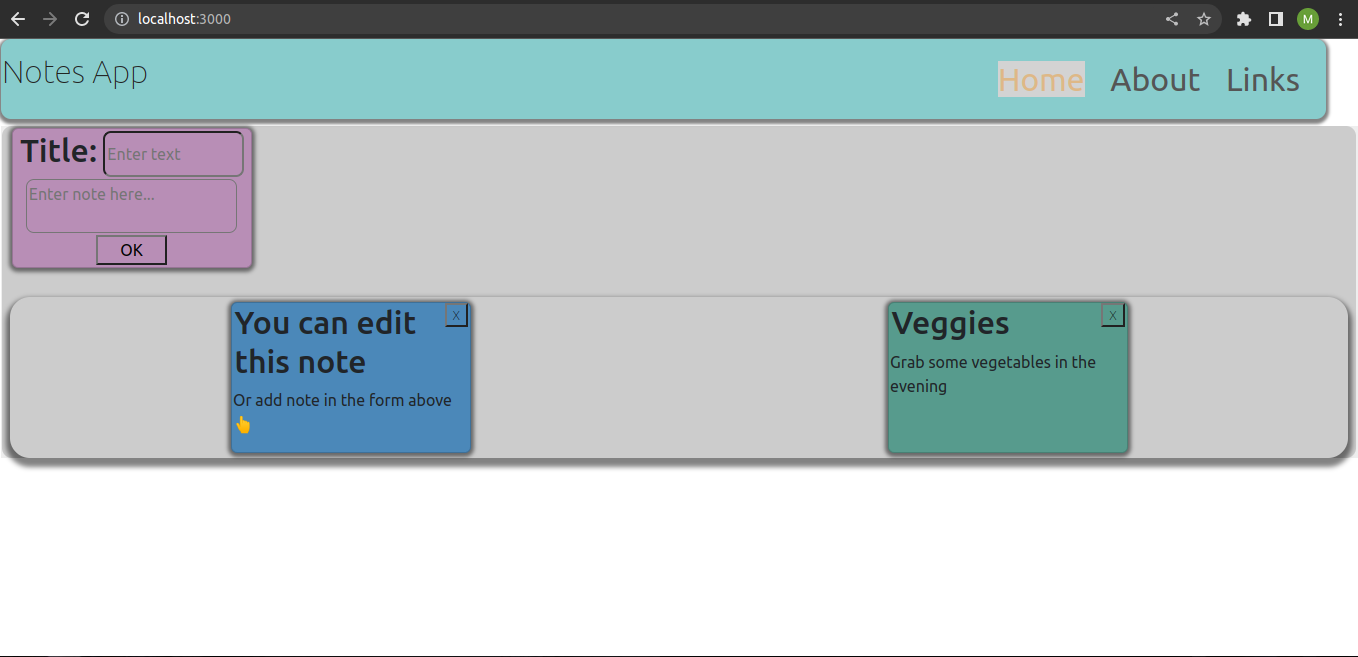
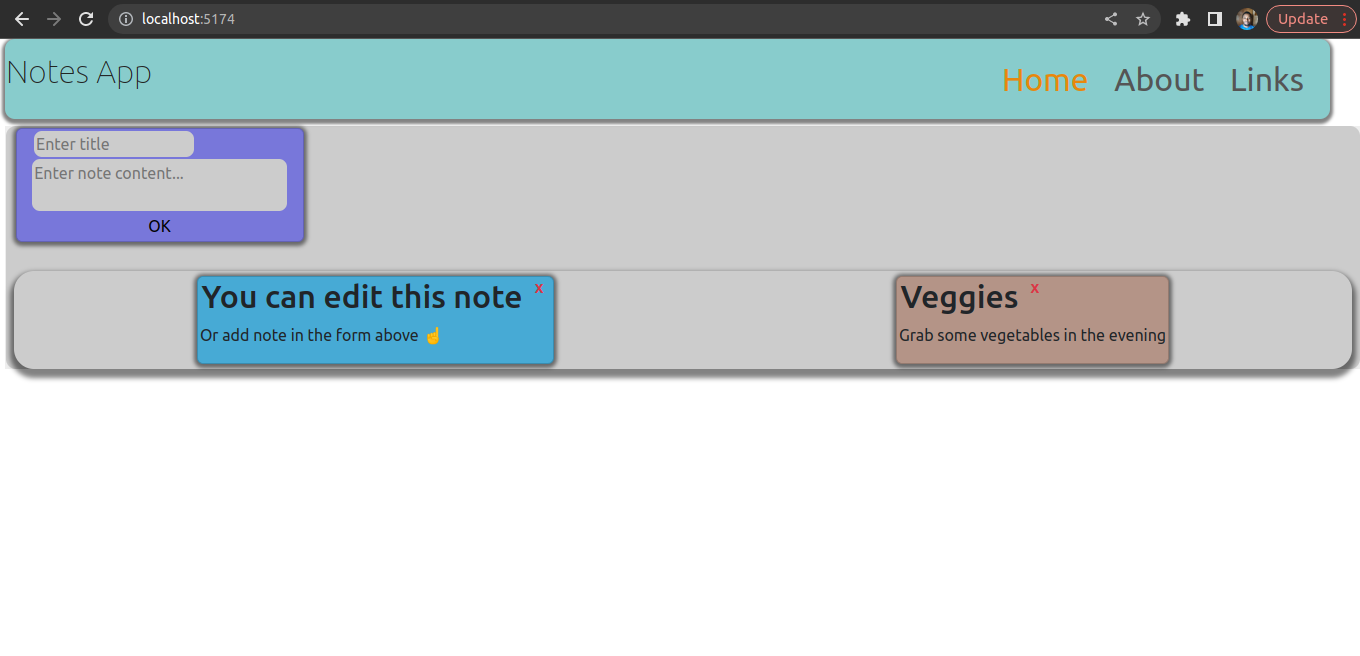
updated screenshots in readme minor fix (margin size of an input)

Changed region(s): [[0.0, 0.061, 1.0, 0.7317], [0.7113, 0.0, 1.0, 0.1829], [0.0309, 0.0, 0.1856, 0.061]]

diff --git a/src/components/Card.jsx b/src/components/Card.jsx
@@ -4,8 +4,8 @@ import { Form } from 'react-bootstrap'
 function Card({ note, randomColor, deleteNote, fetchData }) {
     const [isNone, setIsNone] = useState(false)
     const [edit, setEdit] = useState([note.title, note.content])
-    let conditionIsNone = isNone ? 'none' : 'block'
-    let conditionNotNone = !isNone ? 'none' : 'block'
+    let conditionIsNone = isNone ? 'none' : ''
+    let conditionNotNone = !isNone ? 'none' : ''
     const focusRef = useRef()
 
     useEffect(()=>{
@@ -58,17 +58,17 @@ function Card({ note, randomColor, deleteNote, fetchData }) {
 
   return (
     <div className='card'  style={{width: 'auto', backgroundColor: randomColor()}}>
-                <div style={{display: 'flex', justifyContent: 'space-between'}}>
+                <div style={{display: 'flex'}}>
                     <h2 onClick={changeTitle} className={conditionIsNone + ' ' + note?.id}>{!note.title ? '<no header>' : note.title}</h2>
                     {/* togglling between the element above and the element below based on click to edit */}
                     <Form onSubmit={submitEdit} >
                         <input onChange={controlEdit} 
                         ref={focusRef} type='text' 
                         onBlur={offFocus} value={edit[0]} 
-                        className={conditionNotNone + ' ' + note?.id + ' title-input'} 
+                        className={conditionNotNone + ' ' + note?.id + ' title-input '} 
                         autoFocus />
                     </Form>
-                    <button className='delete-note text-danger' title='Delete note' onClick={() => deleteNote(note?.id)}>X</button>
+                    <button className='delete-note text-danger ml-auto' title='Delete note' onClick={() => deleteNote(note?.id)}>X</button>
                 </div>
 
                 <p className={conditionIsNone + ' ' + note?.id} onClick={changeTitle}>{!note.content ? '<no content>' : note.content}</p>

diff --git a/src/App.css b/src/App.css
@@ -14,7 +14,10 @@
   align-items: center;
   width: 90%;
 }
-#textarea-input:hover, #title-input:hover{
+.title-input{
+    margin-left: 1em;
+}
+#textarea-input:hover, #title-input:hover, .textarea-input:hover, .title-input:hover{
     background-color: transparent;
     box-shadow: 0 0 2em #646cffaa;
 }

diff --git a/README.md b/README.md
@@ -12,7 +12,7 @@ The app is web based and is built mainly using React.js. Technically,
  <img src="public/images/image2.png" alt="screenshot" width="600px" height="300px">
  <img src="public/images/image3.png" alt="screenshot" width="600px" height="300px">
  <img src="public/images/image4.png" alt="screenshot" width="600px" height="300px">
- <img src="public/images/image5.png" alt="screenshot" width="600px" height="300px">
+ <!-- <img src="public/images/image5.png" alt="screenshot" width="600px" height="300px"> -->
 
   ## Installation
 Ensure you have npm installed on your computer.
